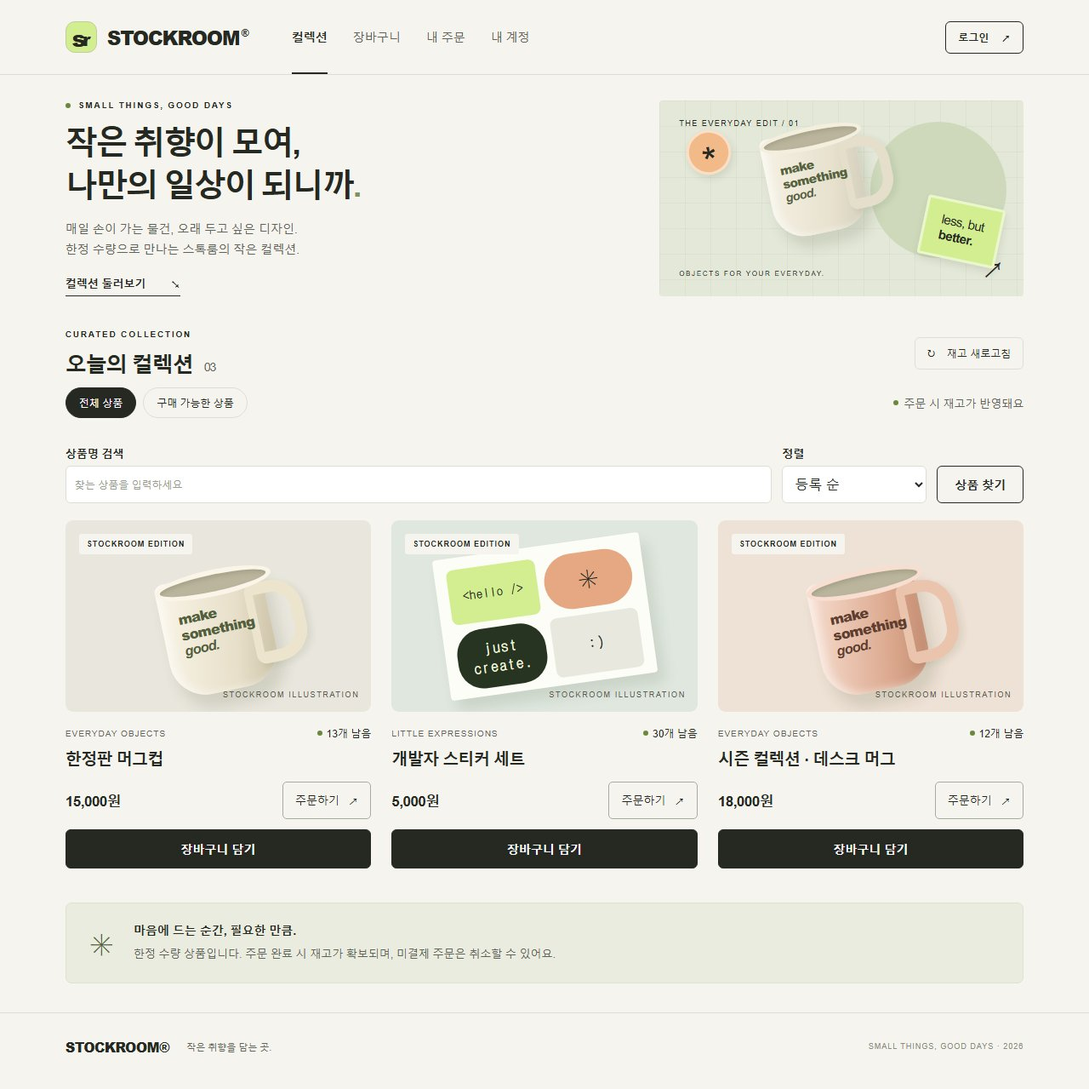
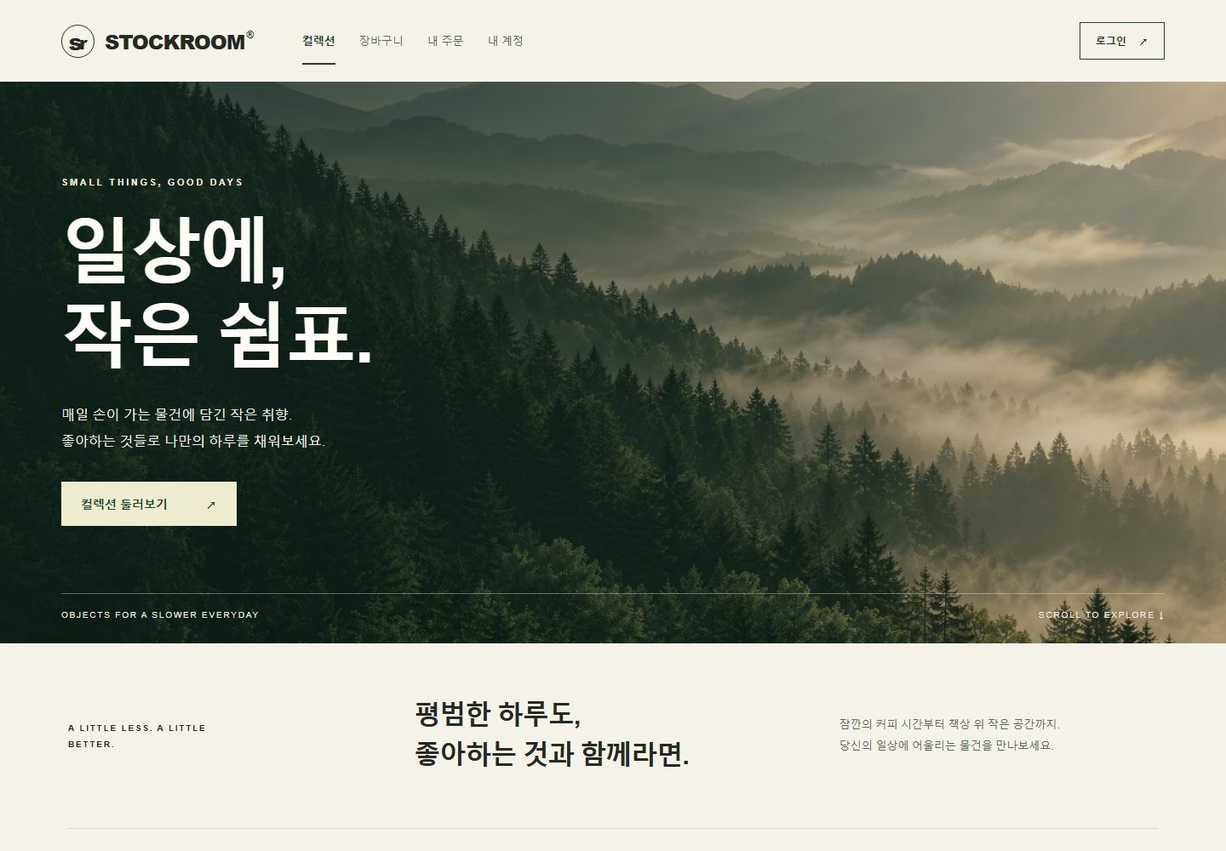
feat: introduce an editorial landscape storefront

diff --git a/src/main/resources/static/assets/editorial.css b/src/main/resources/static/assets/editorial.css
@@ -1,0 +1,152 @@
+@charset "UTF-8";
+
+/* The storefront has its own visual theme; operational screens use store.css. */
+.storefront {
+  --paper:#f5f2e9;
+  --ink:#243e33;
+  --muted:#59665c;
+  --line:#d7d9cd;
+  --green:#e1e7b9;
+  --dark:#243e33;
+  --page-gutter:clamp(22px,5vw,80px);
+  background:var(--paper);
+}
+.storefront main { max-width:none; padding:0; }
+.storefront .store-header { max-width:none; height:auto; min-height:96px; padding:20px var(--page-gutter); gap:clamp(24px,4vw,64px); border:0; flex-wrap:wrap; }
+.storefront .brand { letter-spacing:-1px; font-size:24px; }
+.storefront .brand-icon { background:transparent; border:1px solid currentColor; border-radius:50%; width:39px; height:39px; }
+.storefront .brand-dot { font-weight:400; }
+.storefront .store-header nav { min-height:44px; gap:28px; flex-wrap:wrap; }
+.storefront .store-header nav a { min-height:44px; padding:5px 0; font-size:13px; }
+.storefront .account .button { border-radius:0; min-height:44px; padding:12px 18px; }
+.storefront .button, .storefront input, .storefront select, .storefront .buy-button { border-radius:2px; }
+.storefront :is(a,button,input,select,textarea):focus-visible { outline:3px solid #92703a; outline-offset:5px; }
+.storefront .skip-link { z-index:30; }
+.storefront .skip-link:focus { position:fixed; }
+
+.landscape-hero { position:relative; isolation:isolate; display:grid; align-items:center; min-height:660px; padding:80px var(--page-gutter) 108px; color:#fffdf5; background:#243e33; }
+.landscape-image, .landscape-image img { position:absolute; inset:0; width:100%; height:100%; }
+.landscape-image { z-index:-2; }
+.landscape-image img { object-fit:cover; object-position:center 55%; }
+.landscape-hero::before { content:""; position:absolute; z-index:-1; inset:0; background:linear-gradient(90deg,rgba(13,34,25,.82),rgba(13,34,25,.54) 54%,rgba(13,34,25,.12)); }
+.landscape-copy { max-width:760px; min-width:0; }
+.landscape-copy .eyebrow { font-size:11px; letter-spacing:2.6px; color:#eeeedd; line-height:1.6; }
+.landscape-copy h1 { font-size:clamp(48px,6vw,84px); font-weight:600; line-height:1.19; letter-spacing:-3px; margin:25px 0; word-break:keep-all; }
+.landscape-description { font-size:16px; line-height:1.9; color:#f1f0e5; }
+.landscape-cta { display:inline-flex; align-items:center; gap:44px; min-height:52px; margin-top:32px; padding:15px 23px; background:#eeedcf; color:#213e30; font-size:14px; font-weight:700; transition:background .18s; }
+.landscape-cta:hover { background:#fffde9; }
+.landscape-footnote { position:absolute; inset:auto var(--page-gutter) 28px; display:flex; flex-wrap:wrap; justify-content:space-between; gap:12px; border-top:1px solid #ffffff55; padding-top:19px; font-size:10px; letter-spacing:1.8px; color:#f1f0e5; }
+.storefront .landscape-hero :is(a,h1):focus-visible { outline-color:#f5edba; }
+
+.collection-preface, .storefront .collection, .everyday-story, .storefront .note-strip { width:calc(100% - 2 * var(--page-gutter)); max-width:1280px; margin-left:auto; margin-right:auto; }
+.collection-preface { display:grid; grid-template-columns:1fr 1.25fr 1fr; align-items:center; gap:32px; padding:62px 0; border-bottom:1px solid var(--line); }
+.collection-preface .eyebrow { display:block; max-width:190px; font-size:10px; line-height:1.9; letter-spacing:1.8px; }
+.collection-preface>p:nth-child(2) { font-size:clamp(22px,2.2vw,31px); font-weight:600; line-height:1.5; letter-spacing:-1px; word-break:keep-all; }
+.collection-preface>span { font-size:13px; color:var(--muted); line-height:1.9; word-break:keep-all; }
+.storefront .collection { padding:66px 0 76px; scroll-margin-top:28px; }
+.storefront .collection>.section-heading { align-items:flex-end; flex-wrap:wrap; }
+.storefront .collection .section-heading h2 { font-size:clamp(27px,3vw,38px); line-height:1.4; font-weight:600; letter-spacing:-1.5px; margin-top:13px; }
+.storefront .collection .eyebrow { font-size:10px; letter-spacing:2px; }
+.storefront .collection .section-heading .button { border:0; border-bottom:1px solid var(--line); padding:10px 0; font-size:12px; }
+.storefront .collection-toolbar { padding:32px 0 18px; }
+.storefront .filter { border-radius:0; border:0; border-bottom:1px solid var(--line); min-height:44px; padding:10px 16px; }
+.storefront .filter.active { background:var(--ink); border-color:var(--ink); }
+.storefront #product-search { grid-template-columns:minmax(0,1fr) minmax(140px,200px) auto; gap:16px; margin:0 0 20px; padding:0 0 24px; border-bottom:1px solid var(--line); }
+.storefront #product-search label { margin-top:6px; font-size:12px; font-weight:400; }
+.storefront #product-search input, .storefront #product-search select { background:#faf8f0; border-color:#c7ccbf; min-height:46px; }
+.storefront #product-search>.button { min-height:46px; }
+.storefront .product-grid { gap:40px 28px; }
+.storefront .product-visual-link, .storefront .product-image { border-radius:0; }
+.storefront .product-image { height:290px; }
+.storefront .product-badge { background:#faf8f0; border-radius:0; font-size:9px; }
+.storefront .product-card h3 { margin:12px 0; font-size:21px; font-weight:600; }
+.storefront .product-meta { margin-top:20px; flex-wrap:wrap; gap:10px; }
+.storefront .product-category { letter-spacing:1.3px; }
+.storefront .product-card .price { font-size:18px; }
+.storefront .product-card .button.full { background:transparent; color:var(--ink); border-color:#a3afa0; margin-top:18px; }
+.storefront .product-card .button.full:hover:not(:disabled) { background:var(--ink); color:#fff; }
+.storefront .buy-button { border:0; border-bottom:1px solid #a3afa0; padding:10px 0 10px 14px; }
+
+.everyday-story { display:grid; grid-template-columns:1fr 1fr; min-height:430px; margin-bottom:64px; background:#e8e9dd; }
+.everyday-art { position:relative; isolation:isolate; min-height:430px; overflow:hidden; background:#d6dbcb; }
+.story-circle { position:absolute; width:300px; height:300px; left:calc(50% - 150px); top:65px; border-radius:50%; background:#b8c4a4; }
+.story-index, .story-art-label { position:absolute; left:28px; right:28px; font-size:10px; letter-spacing:1.7px; line-height:1.8; z-index:3; }
+.story-index { top:26px; }
+.story-art-label { bottom:24px; }
+.everyday-art .mug { left:calc(50% - 80px); top:135px; transform:rotate(-12deg) scale(1.15); }
+.everyday-copy { align-self:center; padding:48px clamp(26px,4vw,60px); }
+.everyday-copy .eyebrow { line-height:1.8; font-size:10px; }
+.everyday-copy h2 { margin:22px 0; font-size:clamp(28px,3vw,40px); font-weight:600; line-height:1.45; letter-spacing:-1.5px; word-break:keep-all; }
+.everyday-copy>p:not(.eyebrow) { font-size:14px; line-height:2; color:var(--muted); }
+.everyday-copy .text-link { margin-top:28px; min-height:40px; align-items:center; }
+.storefront .note-strip { display:flex; flex-wrap:wrap; padding:28px 0; margin-bottom:60px; border:0; border-top:1px solid var(--line); border-bottom:1px solid var(--line); border-radius:0; background:transparent; }
+.storefront .note-strip>div { flex:1; min-width:190px; }
+.storefront .note-strip .text-link { min-height:44px; align-items:center; }
+.storefront .note-strip p { max-width:680px; }
+
+.storefront #product-view, .storefront #orders-view, .storefront #cart-view, .storefront #account-view, .storefront .checkout-recovery { width:calc(100% - 2 * var(--page-gutter)); max-width:1280px; margin-left:auto; margin-right:auto; }
+.storefront .checkout-recovery { margin-top:24px; margin-bottom:24px; }
+.storefront .store-footer { max-width:none; padding:48px var(--page-gutter) 32px; background:#243e33; color:#f5f2e9; border:0; display:grid; grid-template-columns:1fr auto; gap:36px; align-items:start; }
+.store-footer .footer-brand { font-size:clamp(26px,3vw,40px); letter-spacing:-1.5px; }
+.store-footer .footer-intro p { color:#d1d8c9; margin-top:14px; font-size:13px; }
+.store-footer nav { display:flex; flex-wrap:wrap; gap:16px 28px; font-size:13px; }
+.store-footer nav a { display:inline-flex; min-height:44px; align-items:center; }
+.store-footer nav a:hover { text-decoration:underline; text-underline-offset:5px; }
+.storefront .store-footer>span { grid-column:1/-1; margin:0; border-top:1px solid #ffffff33; padding-top:24px; font-size:10px; color:#d1d8c9; line-height:1.8; letter-spacing:1.6px; }
+.storefront .store-footer a:focus-visible { outline-color:#f5edba; }
+
+@media(min-width:1600px) { .landscape-copy { margin-left:max(0px,calc((100vw - 1440px)/2)); } }
+@media(max-width:1000px) {
+  .storefront .store-header { gap:12px 28px; }
+  .storefront .store-header nav { gap:18px; }
+  .storefront .account-email { display:none; }
+  .landscape-hero { min-height:590px; }
+  .collection-preface { grid-template-columns:1fr 1.4fr; }
+  .collection-preface>span { grid-column:2; }
+  .storefront .product-image { height:270px; }
+  .storefront .store-footer { grid-template-columns:1fr; gap:24px; }
+}
+@media(max-width:700px) {
+  .storefront .store-header { display:grid; grid-template-columns:minmax(0,1fr) auto; min-height:110px; padding:16px var(--page-gutter) 0; gap:8px 14px; }
+  .storefront .brand { font-size:20px; white-space:nowrap; gap:9px; }
+  .storefront .brand-icon { width:32px; height:32px; font-size:24px; }
+  .storefront .store-header nav { grid-column:1/-1; grid-row:2; height:auto; min-width:0; gap:6px 22px; overflow:visible; white-space:normal; }
+  .storefront .store-header nav a { font-size:12px; min-height:44px; }
+  .storefront .store-header .account { grid-column:2; grid-row:1; margin:0; }
+  .storefront .account .button { font-size:11px; padding:10px; }
+  .landscape-hero { min-height:570px; padding:65px var(--page-gutter) 105px; }
+  .landscape-copy h1 { font-size:54px; }
+  .landscape-description { font-size:14px; }
+  .landscape-footnote { font-size:9px; letter-spacing:1.2px; }
+  .landscape-footnote>span:last-child { display:none; }
+  .collection-preface { padding:38px 0; gap:16px; grid-template-columns:1fr; }
+  .collection-preface .eyebrow { max-width:none; }
+  .collection-preface>p:nth-child(2) { font-size:27px; }
+  .collection-preface>span { grid-column:auto; }
+  .storefront .collection { padding:42px 0 48px; }
+  .storefront .collection .section-heading .eyebrow { display:block; }
+  .storefront .collection .section-heading h2 { font-size:27px; }
+  .storefront .collection .section-heading .button { min-height:44px; }
+  .storefront .collection-toolbar { padding:22px 0 18px; }
+  .storefront #product-search { grid-template-columns:minmax(0,1fr) auto; gap:12px; }
+  .storefront #product-search>div:first-child { grid-column:1/-1; }
+  .storefront .product-grid { grid-template-columns:1fr; gap:36px; }
+  .storefront .product-image { height:290px; }
+  .everyday-story { grid-template-columns:1fr; margin-bottom:36px; }
+  .everyday-art { min-height:330px; }
+  .story-circle { top:35px; width:260px; height:260px; left:calc(50% - 130px); }
+  .everyday-art .mug { top:95px; transform:rotate(-12deg); }
+  .everyday-copy { padding:34px 26px 40px; }
+  .storefront .note-strip { margin-bottom:36px; gap:18px; }
+  .storefront .note-strip .text-link { margin-left:50px; }
+}
+@media(max-width:360px) {
+  .storefront { --page-gutter:18px; }
+  .storefront .brand { font-size:17px; gap:7px; }
+  .storefront .store-header nav { gap:5px 16px; }
+  .landscape-copy h1 { font-size:48px; letter-spacing:-2px; }
+  .landscape-copy .eyebrow { font-size:9px; letter-spacing:2px; }
+  .landscape-description { font-size:13px; }
+  .storefront .collection .section-heading h2 { font-size:25px; }
+  .storefront .product-image { height:260px; }
+}

diff --git a/src/main/resources/static/index.html b/src/main/resources/static/index.html
@@ -3,14 +3,15 @@
 <head>
   <meta charset="UTF-8">
   <meta name="viewport" content="width=device-width, initial-scale=1">
-  <meta name="theme-color" content="#f5f4ef">
+  <meta name="theme-color" content="#f5f2e9">
   <meta name="description" content="일상에 작은 즐거움을 더하는 한정 수량 컬렉션. 상품을 둘러보고 내 주문을 관리하세요.">
   <title>STOCKROOM — 작은 취향을 담는 곳</title>
   <link rel="icon" href="/assets/favicon.svg" type="image/svg+xml">
   <link rel="stylesheet" href="/assets/store.css">
+  <link rel="stylesheet" href="/assets/editorial.css">
   <script src="/assets/accessibility.js" defer></script><script src="/assets/toss.js" defer></script><script src="/assets/store.js" defer></script>
 </head>
-<body>
+<body class="storefront">
   <a class="skip-link" href="#main" tabindex="0">본문으로 건너뛰기</a>
   <header class="header store-header">
     <a class="brand" href="#shop" aria-label="Stockroom 홈"><span class="brand-icon" aria-hidden="true">s<span>r</span></span>STOCKROOM<span class="brand-dot">®</span></a>
@@ -20,18 +21,21 @@
   <main tabindex="-1" id="main">
     <aside id="checkout-recovery" class="checkout-recovery" aria-labelledby="recovery-title" hidden><div class="section-heading"><div><p class="eyebrow">CHECK YOUR REQUEST</p><h2 id="recovery-title">이어서 확인할 주문</h2></div><button id="refresh-recovery" class="button ghost small" type="button">요청 새로고침</button></div><p class="field-help">응답을 확인하지 못한 주문을 다른 탭이나 기기에서도 확인하세요. 확인 기한 후 24시간 이내의 요청을 최대 100건 표시해요.</p><p id="recovery-status" class="form-error" role="status"></p><div id="recovery-items"></div></aside>
     <section id="shop-view">
-      <div class="hero">
-        <div class="hero-copy"><p class="eyebrow"><span class="live-dot"></span> SMALL THINGS, GOOD DAYS</p><h1>작은 취향이 모여,<br>나만의 일상이 되니까<span class="period">.</span></h1><p class="hero-description">매일 손이 가는 물건, 오래 두고 싶은 디자인.<br>한정 수량으로 만나는 스톡룸의 작은 컬렉션.</p><a class="text-link" href="#collection">컬렉션 둘러보기 <span aria-hidden="true">↘</span></a></div>
-        <div class="hero-art" aria-hidden="true"><div class="art-grid"></div><span class="art-label">THE EVERYDAY EDIT / 01</span><div class="orb"></div><div class="mug"><div class="mug-print">make<br>something<span>good.</span></div></div><div class="sticker sticker-one">less, but<br><b>better.</b></div><div class="sticker sticker-two">*</div><span class="art-bottom">OBJECTS FOR YOUR EVERYDAY.</span><span class="art-corner">↗</span></div>
-      </div>
+      <section class="landscape-hero" aria-labelledby="hero-title">
+        <picture class="landscape-image" aria-hidden="true"><source media="(max-width:600px)" srcset="/assets/images/stockroom-forest-mobile.webp"><img src="/assets/images/stockroom-forest-hero.webp" width="1536" height="1024" alt="" fetchpriority="high" decoding="async"></picture>
+        <div class="landscape-copy"><p class="eyebrow">SMALL THINGS, GOOD DAYS</p><h1 id="hero-title">일상에,<br>작은 쉼표.</h1><p class="landscape-description">매일 손이 가는 물건에 담긴 작은 취향.<br>좋아하는 것들로 나만의 하루를 채워보세요.</p><a class="landscape-cta" href="#collection">컬렉션 둘러보기 <span aria-hidden="true">↗</span></a></div>
+        <div class="landscape-footnote" aria-hidden="true"><span>OBJECTS FOR A SLOWER EVERYDAY</span><span>SCROLL TO EXPLORE ↓</span></div>
+      </section>
+      <div class="collection-preface"><p class="eyebrow">A LITTLE LESS. A LITTLE BETTER.</p><p>평범한 하루도,<br>좋아하는 것과 함께라면.</p><span>잠깐의 커피 시간부터 책상 위 작은 공간까지.<br>당신의 일상에 어울리는 물건을 만나보세요.</span></div>
       <section class="collection" id="collection" aria-labelledby="collection-title">
-        <div class="section-heading"><div><p class="eyebrow">CURATED COLLECTION</p><h2 id="collection-title" tabindex="-1">오늘의 컬렉션 <span id="product-count"></span></h2></div><button class="button ghost small" id="refresh-products"><span aria-hidden="true">↻</span> 재고 새로고침</button></div>
+        <div class="section-heading"><div><p class="eyebrow">THE EVERYDAY COLLECTION</p><h2 id="collection-title" tabindex="-1">곁에 두고 싶은 것들 <span id="product-count"></span></h2></div><button class="button ghost small" id="refresh-products"><span aria-hidden="true">↻</span> 재고 새로고침</button></div>
         <div class="collection-toolbar"><div class="filters" role="group" aria-label="상품 필터"><button class="filter active" data-filter="all" aria-pressed="true">전체 상품</button><button class="filter" data-filter="available" aria-pressed="false">구매 가능한 상품</button></div><span class="toolbar-note"><span class="live-dot"></span> 주문 시 재고가 반영돼요</span></div>
         <form id="product-search" class="search-toolbar"><div><label for="product-query">상품명 검색</label><input id="product-query" maxlength="100" type="search" placeholder="찾는 상품을 입력하세요"></div><div><label for="product-sort">정렬</label><select id="product-sort"><option value="ID_ASC">등록 순</option><option value="PRICE_ASC">낮은 가격 순</option><option value="PRICE_DESC">높은 가격 순</option></select></div><button class="button" type="submit">상품 찾기</button></form>
         <div class="result-summary"><p id="product-results" role="status"></p><button id="reset-products" class="text-link" data-reset-products type="button" hidden>조건 초기화</button></div>
         <div id="products" class="product-grid" aria-live="polite"><p class="empty">상품을 불러오고 있어요.</p></div><button id="products-more" class="button load-more" type="button" hidden>상품 더 보기 ↓</button>
       </section>
-      <aside class="note-strip"><span class="note-symbol" aria-hidden="true">✳</span><div><strong>마음에 드는 순간, 필요한 만큼.</strong><p>한정 수량 상품입니다. 주문 완료 시 재고가 확보되며, 미결제 주문은 취소할 수 있어요.</p></div></aside>
+      <section class="everyday-story" aria-labelledby="everyday-title"><div class="everyday-art" aria-hidden="true"><span class="story-index">THE EVERYDAY EDIT / 01</span><div class="story-circle"></div><div class="mug"><div class="mug-print">make<br>something<span>good.</span></div></div><span class="story-art-label">A MOMENT, JUST FOR YOU.</span></div><div class="everyday-copy"><p class="eyebrow">MAKE ROOM FOR WHAT YOU LOVE</p><h2 id="everyday-title">거창하지 않아도,<br>좋은 하루.</h2><p>익숙한 컵에 내린 커피 한 잔,<br>마음에 드는 스티커로 채운 한 페이지.<br>작은 취향이 쌓여 나다운 일상이 되니까요.</p><a class="text-link" href="#collection">나의 취향 찾아보기 <span aria-hidden="true">↗</span></a></div></section>
+      <aside class="note-strip"><span class="note-symbol" aria-hidden="true">✳</span><div><strong>마음에 드는 순간, 필요한 만큼.</strong><p>한정 수량 상품입니다. 주문 완료 시 재고가 확보되며, 미결제 주문은 취소할 수 있어요.</p></div><a href="#orders" class="text-link">내 주문 확인 <span aria-hidden="true">↗</span></a></aside>
     </section>
     <section id="product-view" hidden aria-labelledby="product-title">
       <a class="product-back" href="#collection">← 컬렉션으로 돌아가기</a>
@@ -77,7 +81,7 @@
       </div>
     </section>
   </main>
-  <footer><a class="footer-brand" href="#shop">STOCKROOM®</a><p>작은 취향을 담는 곳.</p><span>SMALL THINGS, GOOD DAYS · 2026</span></footer>
+  <footer class="store-footer"><div class="footer-intro"><a class="footer-brand" href="#shop">STOCKROOM®</a><p>작은 취향을 담는 곳.</p></div><nav aria-label="하단 메뉴"><a href="#collection">컬렉션</a><a href="#cart">장바구니</a><a href="#orders">내 주문</a><a href="#account">내 계정</a></nav><span>SMALL THINGS, GOOD DAYS · 2026</span></footer>
   <div id="toast" role="status" aria-live="polite" hidden></div>
   <dialog id="auth-dialog" aria-labelledby="auth-title" aria-describedby="auth-description"><button class="close" data-close aria-label="닫기">×</button><p class="eyebrow">WELCOME TO STOCKROOM</p><h2 id="auth-title">다시 만나 반가워요.</h2><p id="auth-description" class="muted">로그인하고 나만의 컬렉션을 만나보세요.</p><form id="auth-form"><label for="email">이메일</label><input id="email" autofocus aria-describedby="auth-error" name="email" type="email" autocomplete="username" placeholder="you@example.com" maxlength="254" required><label for="password">비밀번호</label><input id="password" aria-describedby="password-help auth-error" name="password" type="password" autocomplete="current-password" placeholder="비밀번호를 입력하세요" required><p id="password-help" class="field-help" hidden>8자 이상, UTF-8 기준 72바이트 이하로 입력하세요.</p><p class="form-error" id="auth-error" role="alert"></p><button class="button primary full" id="auth-submit" type="submit">로그인 →</button></form><p><a id="forgot-password" class="text-link" href="/reset.html" hidden>비밀번호를 잊으셨나요?</a></p><p class="auth-switch"><span id="auth-switch-label">아직 계정이 없나요?</span> <button class="text-link" id="auth-switch">회원가입</button></p></dialog>
   <dialog id="purchase-dialog" aria-labelledby="purchase-title"><button class="close" data-close aria-label="닫기">×</button><p class="eyebrow">A LITTLE SOMETHING FOR YOU</p><h2 id="purchase-title">주문하기</h2><p class="muted" id="purchase-stock"></p><form id="purchase-form"><div class="quantity-row"><label for="quantity">수량</label><div class="stepper"><button type="button" id="quantity-minus" aria-label="수량 줄이기">−</button><input id="quantity" autofocus aria-describedby="purchase-stock purchase-error" name="quantity" type="number" min="1" step="1" value="1" required><button type="button" id="quantity-plus" aria-label="수량 늘리기">+</button></div></div><div class="total-row"><span>주문 금액</span><strong id="purchase-total"></strong></div><p class="field-help">주문이 완료되면 재고가 확보돼요. 결제 전에는 내 주문에서 취소할 수 있어요.</p><p class="form-error" id="purchase-error" role="alert"></p><button class="button primary full" id="purchase-submit" type="submit">주문 완료하기 →</button></form></dialog>

diff --git a/src/main/resources/static/assets/store.js b/src/main/resources/static/assets/store.js
@@ -213,7 +213,13 @@
     document.title = `${orders ? "내 주문" : account ? "내 계정" : basket ? "장바구니" : product ? "상품 상세" : "작은 취향을 담는 곳"} — STOCKROOM`;
     if (event && !document.querySelector("dialog[open]")) {
       const heading = target ? $(target) : !product ? $("#shop-view h1") : null;
-      if (heading) { heading.tabIndex = -1; heading.focus({ preventScroll: true }); if (!target || location.hash !== "#collection") window.scrollTo(0, 0); }
+      if (heading) {
+        heading.tabIndex = -1;
+        heading.focus({ preventScroll: true });
+        // A fragment target can be hidden when navigating back from another view.
+        if (location.hash === "#collection") $("#collection").scrollIntoView({ block: "start" });
+        else window.scrollTo(0, 0);
+      }
     }
   }
 

diff --git a/docs/storefront-design.md b/docs/storefront-design.md
@@ -1,0 +1,48 @@
+# 컬렉션 디자인
+
+## 구성과 범위
+
+첫 화면의 풍경 배경과 큰 제목에서 상품 목록으로 이동하고, 목록 아래 소개 영역과 내 주문 링크를 제공합니다.
+크림색 바탕·짙은 녹색·직선형 버튼을 사용하며 상품 목록의 검색·필터·정렬과 주문 동작은 기존 API를 유지합니다.
+넓은 이미지와 소개 콘텐츠의 흐름은 [National Park Foundation](https://www.nationalparks.org/)을 참고했습니다.
+해당 사이트의 소스·사진·문구·로고를 가져오지 않았습니다.
+
+- 화면: `src/main/resources/static/index.html`
+- 전용 스타일: `src/main/resources/static/assets/editorial.css`
+- 공통 컴포넌트: 기존 `store.css`, `store.js`, `accessibility.js`
+- 상품 자료: 기존 데모 데이터를 유지하며 빈 사진·설명·규격을 임의로 채우지 않습니다.
+
+첫 화면의 제목·설명·버튼은 이미지 위에 HTML로 배치합니다. 장식용 이미지는 빈 대체 텍스트로 제공하고
+이미지 로딩이 실패해도 녹색 배경에서 내용을 읽고 컬렉션으로 이동할 수 있습니다.
+휴대폰에서는 한 열로 배치하고 메뉴 줄바꿈을 허용합니다. 배경 이미지는 움직이지 않으며 자동 재생·스크롤 애니메이션을 추가하지 않습니다.
+
+## 배경 이미지 제작
+
+내장 이미지 생성 도구로 새로 제작한 가상의 풍경입니다. 실제 공원·촬영 장소·상품 사진을 나타내지 않습니다.
+외부 이미지 주소나 API 키 없이 정적 파일로 제공합니다.
+
+| 파일 | 크기 | 용도 |
+|---|---|---|
+| `assets/images/stockroom-forest-hero.webp` | 1536 × 1024, 211,044바이트 | 기본 배경 |
+| `assets/images/stockroom-forest-mobile.webp` | 768 × 512, 55,100바이트 | 화면 너비 600px 이하 |
+
+브라우저의 `picture`가 화면 너비에 맞는 이미지를 선택합니다. 첫 화면 이미지는 우선 로딩하며,
+텍스트 대비는 그라데이션 오버레이로 확보합니다. WebP 파일은 생성 원본에서 크기·포맷만 최적화했습니다.
+
+사용한 생성 프롬프트:
+
+```text
+Use case: photorealistic-natural. Asset type: full width website hero background for STOCKROOM, a Korean small lifestyle collection storefront, inspired by editorial nature photography. Create an original cinematic photograph of misty forested mountains at dawn, deep evergreen woodland in foreground, layered soft sage hills receding into warm ivory sky. Subtle sun rays from upper right, calm and tactile like a quiet early morning outdoors, natural photographic grain. Landscape wide 3:2 or wider. Composition: left half is relatively dark softly textured forest with plenty of uninterrupted space where real HTML white headline will be overlaid; strongest pale mist and mountain silhouettes on right half. Image must still work center-cropped on mobile. Colors: deep pine green, muted olive, warm cream light. No text, no lettering, no logos, no watermark, no buildings, no people, no products. This is brand atmosphere, not a product photo. Return a usable image file.
+```
+
+## 화면 확인
+
+기존 [브라우저 검사](browser-tests.md)로 상품 조회·로그인·주문·장바구니·계정·모달 초점·접근성을 확인합니다.
+레이아웃 변경 시 아래도 확인합니다.
+
+1. 1440px·390px·320px에서 가로 넘침과 잘린 메뉴가 없는지 확인합니다.
+2. 첫 화면과 소개 영역의 컬렉션 링크가 목록으로 이동하며 제목에 키보드 초점이 도달하는지 확인합니다.
+3. 이미지 로딩 실패와 200% 텍스트 확대에서도 제목·버튼·검색·상품 목록을 사용할 수 있는지 확인합니다.
+4. 상품 상세·장바구니·내 주문으로 이동했을 때 소개 영역이 함께 숨겨지고, 상단과 하단 메뉴로 복귀할 수 있는지 확인합니다.
+
+WebKit 자동 검사는 실제 iPhone Safari의 실기기 확인과 구분합니다.

diff --git a/docs/frontend.md b/docs/frontend.md
@@ -4,6 +4,14 @@ Spring Boot가 `src/main/resources/static`의 HTML·CSS·JavaScript를 제공합
 추가 설치·프론트 개발 서버 없이 Docker 실행 후 `http://localhost:18080/`에서 사용합니다.
 Java 직접 실행은 `http://localhost:8080/`입니다. 기존 `/products` JSON API는 그대로 사용합니다.
 
+## 화면 구성
+
+컬렉션 첫 화면은 넓은 풍경 배경, 큰 제목, 상품 목록과 소개 영역으로 구성합니다.
+`editorial.css`는 `index.html`의 `.storefront`에 적용하며 관리자·비밀번호 복구·결제 결과 화면의 공통 스타일과 구분합니다.
+배경은 로컬 WebP 두 크기로 제공하며, 불러오지 못하면 짙은 녹색 배경과 제목·이동 버튼을 유지합니다.
+상품 이미지·설명·가격·재고는 기존 API를 사용합니다. 풍경 이미지를 실제 상품 사진으로 사용하거나 상품 자료에 저장하지 않습니다.
+이미지 제작 정보와 화면 확인 기준은 [컬렉션 디자인](storefront-design.md)을 참고하세요.
+
 ## 화면과 사용 흐름
 
 1. 컬렉션: 실제 상품·가격·남은 재고를 조회하고 구매 가능한 상품만 필터링합니다.
@@ -26,7 +34,8 @@ Java 직접 실행은 `http://localhost:8080/`입니다. 기존 `/products` JSON
 
 모의 동작의 표시 여부는 공개 `GET /storefront/config`의 두 boolean 값으로 결정합니다.
 설정 조회 실패 시 버튼을 표시하지 않습니다. `prod`에서는 두 값이 false이고 서버도 모의 쓰기를 거부합니다.
-실제 PG 결제·배송은 현재 구현 범위에 포함하지 않습니다.
+토스페이먼츠 카드 테스트 결제·전액 환불은 [테스트 키 설정](toss-test-payments.md) 후 사용할 수 있으며 기본값은 비활성화입니다.
+실제 토스 결제창·승인·환불의 외부 검증과 배송 처리는 아직 완료 범위에 포함하지 않습니다.
 등록 이미지가 있으면 목록·상세에 표시합니다. 이미지가 없거나 불러오지 못하면 CSS 일러스트로 안내합니다.
 상품 관리 화면에서 이미지를 등록·교체·삭제하고 변경 이력을 확인할 수 있습니다.
 확인 주문은 서버에도 요청 키를 등록해 탭 종료 후 결과를 확인합니다. [이미지·주문 복구 정책](product-images-and-order-recovery.md)을 참고하세요.

diff --git a/README.md b/README.md
@@ -8,7 +8,7 @@
 [Backend CI 실행 내역](https://github.com/zeroziba9-hash/order-stock-service/actions/workflows/ci.yml) ·
 [Docker Compose CI](https://github.com/zeroziba9-hash/order-stock-service/actions/workflows/docker.yml)
 
-![STOCKROOM 데스크톱 상품 화면](docs/images/storefront.jpg)
+![STOCKROOM 컬렉션 첫 화면](docs/images/storefront.jpg)
 
 ## 핵심 설계와 검증
 
